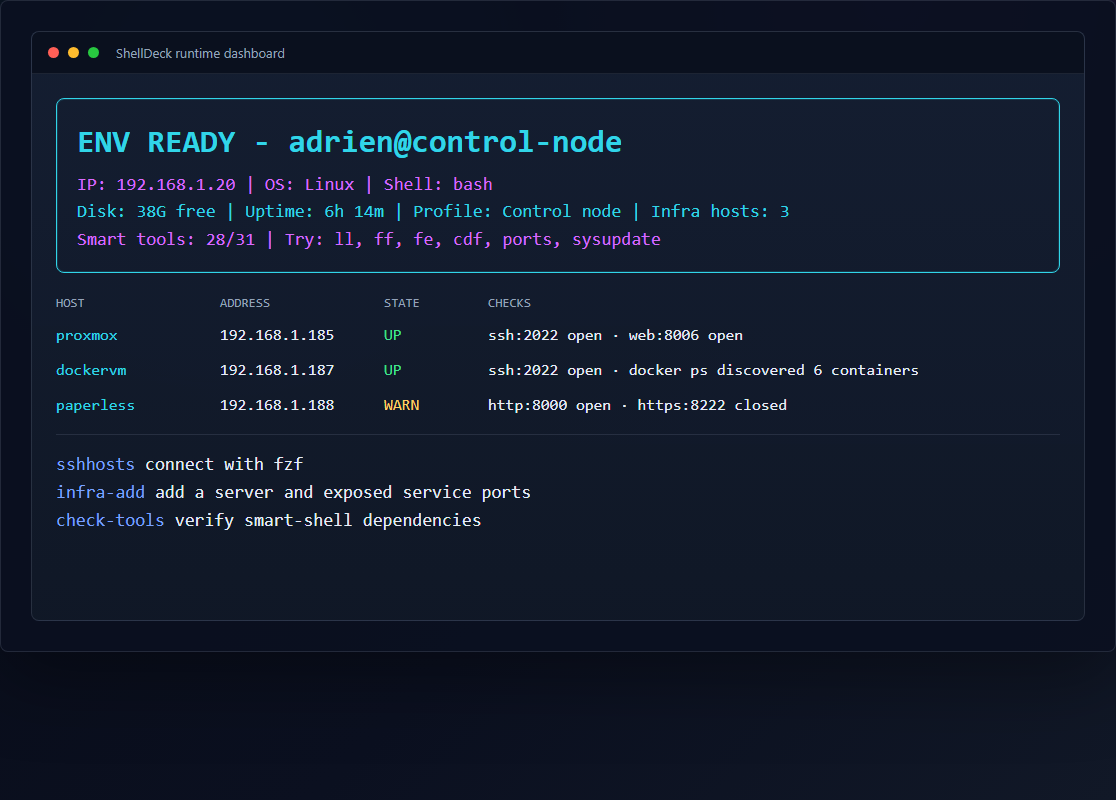
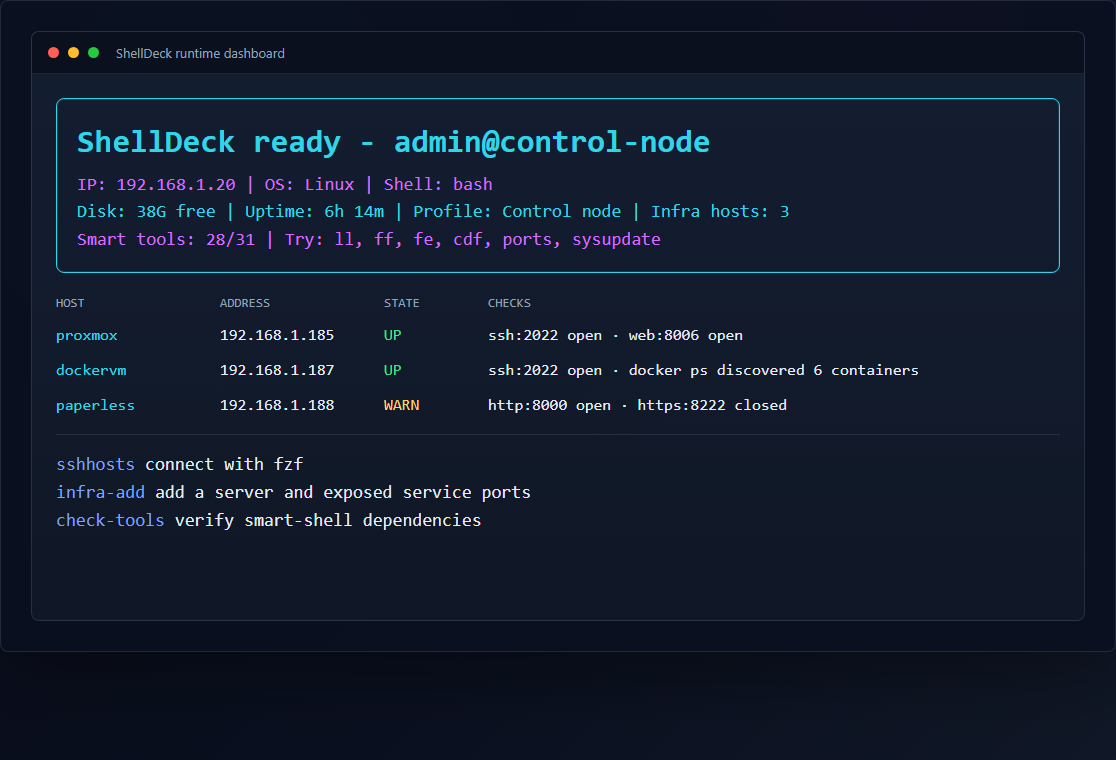
Add ShellDeck branding

diff --git a/docs/screenshots/installer-preview.html b/docs/screenshots/installer-preview.html
@@ -128,6 +128,14 @@
       margin-bottom: 4px;
     }
 
+    .ascii-logo {
+      color: var(--cyan);
+      font-size: 13px;
+      line-height: 1.12;
+      margin: 0 0 14px;
+      white-space: pre;
+    }
+
     .subtle {
       color: var(--muted);
     }
@@ -256,9 +264,13 @@
         </div>
         <div class="terminal">
           <div class="banner">
-            <span class="brand">ShellDeck</span>
-            <span>Smart shell bootstrap and infra-aware installer</span><br>
-            <span class="subtle">Profile-aware setup for control nodes and workstations.</span>
+            <pre class="ascii-logo">   _____ __         ____     ____            __
+  / ___// /_  ___  / / /____/ / /__  _____  / /__
+  \__ \/ __ \/ _ \/ / / ___/ / / _ \/ ___/ / //_/
+ ___/ / / / /  __/ / / /__/ / /  __/ /__  / ,&lt;
+/____/_/ /_/\___/_/_/\___/_/_/\___/\___/ /_/|_|  v0.1.4</pre>
+            <span>Smart shell bootstrap for workstations and control nodes</span><br>
+            <span class="subtle">Infra-aware setup. Hardened defaults. Fast terminal workflows.</span>
           </div>
           <div class="prompt">Choose machine profile</div>
           <div class="choice active">› Control node - smart shell plus infra dashboard, SSH shortcuts, host/service checks</div>
@@ -338,7 +350,7 @@
         </div>
         <div class="terminal">
           <div class="banner">
-            <span class="brand">ENV READY - adrien@control-node</span>
+            <span class="brand">ShellDeck ready - admin@control-node</span>
             <span class="magenta">IP: 192.168.1.20 | OS: Linux | Shell: bash</span><br>
             <span class="cyan">Disk: 38G free | Uptime: 6h 14m | Profile: Control node | Infra hosts: 3</span><br>
             <span class="magenta">Smart tools: 28/31 | Try: ll, ff, fe, cdf, ports, sysupdate</span>

diff --git a/CHANGELOG.md b/CHANGELOG.md
@@ -6,6 +6,7 @@
 - Added `--ui auto|gum|classic`, `--gum-ui`, and `--classic-ui` for Bash/macOS/Linux installs, plus `-Ui`, `-GumUi`, and `-ClassicUi` for PowerShell.
 - Added Gum bootstrap relaunch behavior for downloaded installers, with PATH refresh and same-process fallback for streamed installs.
 - Added Charmbracelet's official apt repository fallback when `apt-get install gum` cannot locate the package.
+- Added ShellDeck logo assets, a terminal wordmark banner, and refreshed README screenshots for a more polished project presentation.
 - Fixed Gum choice prompts on older Gum builds by avoiding the incompatible `--header` flag.
 
 ## 0.1.4 - 2026-05-13

diff --git a/README.md b/README.md
@@ -1,6 +1,10 @@
+<p align="center">
+  <img src="docs/assets/shelldeck-logo.svg" alt="ShellDeck - smart shell bootstrap for workstations and control nodes" width="760">
+</p>
+
 # ShellDeck
 
-Cross-platform smart shell bootstrap for fresh VMs, workstations, and homelab control nodes.
+ShellDeck is a cross-platform smart shell bootstrap for fresh VMs, workstations, and homelab control nodes.
 
 ShellDeck installs a profile runtime that upgrades your terminal startup, keeps personal aliases/functions in one place, and can optionally turn a control node into an infra dashboard for SSH hosts such as Proxmox, Docker VMs, and app servers.
 
